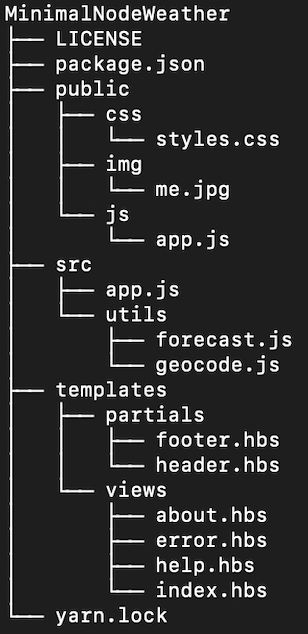
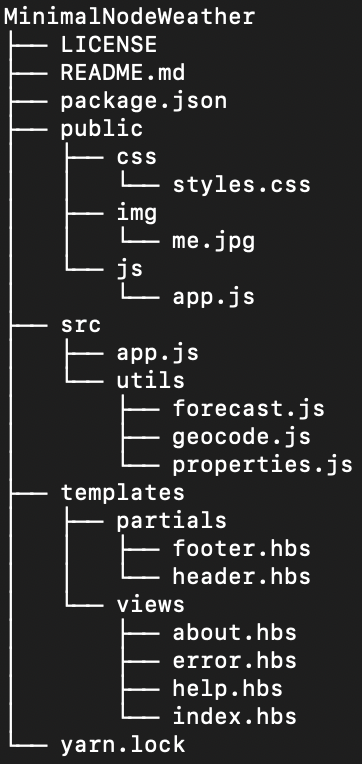
added image for readme

Changed region(s): [[0.0, 0.0, 0.9935, 0.989]]

diff --git a/README.md b/README.md
@@ -1,22 +1,22 @@
 # MinimalNodeWeather
 
-A simple, minimalistic weather app made with NodeJs. 
+A simple, minimalistic weather app made with Node.js
 
-This repo is open for PRs. 
+:boom: This repo is open for **Hacktoberfest 2020** PRs.
 
 ## :computer: How to run the project
 
-1. Install [NodeJS](https://nodejs.org/en/download/). 
+1. Install [Node.js](https://nodejs.org/en/download/)
 1. Install [yarn](https://www.npmjs.com/package/yarn).
 1. Install [nodemon](https://www.npmjs.com/package/nodemon).
-1. Type ```yarn install``` to install all node modules.
+1. Type `yarn install` to install all node modules.
 1. Sign-up [here](https://weatherstack.com/) and [here](https://www.mapbox.com/). Get the access keys after registering and creating a new project in those sites.
-1. Add those access keys [here](/src/utils/properties.js).
-1. Type ```nodemon -e js,hbs``` in the root of the project to start the server.
-1. Open ```localhost:3000```.
+1. Get those access keys and add them [here](/src/utils/properties.js).
+1. Type `nodemon -e js,hbs` in the root of the project to start the server.
+1. Open `localhost:3000`.
 
 ## :file_folder: Project Structure
 
 <p align="center"><img src =".github/images/dir_tree.png" /></p>
 
-The client side files can be found in the ```public``` folder. This node project uses [handlebars](https://www.npmjs.com/package/handlebars) for views.
+The client side files can be found in the `public` folder. This node project uses [handlebars](https://www.npmjs.com/package/handlebars) for views.
